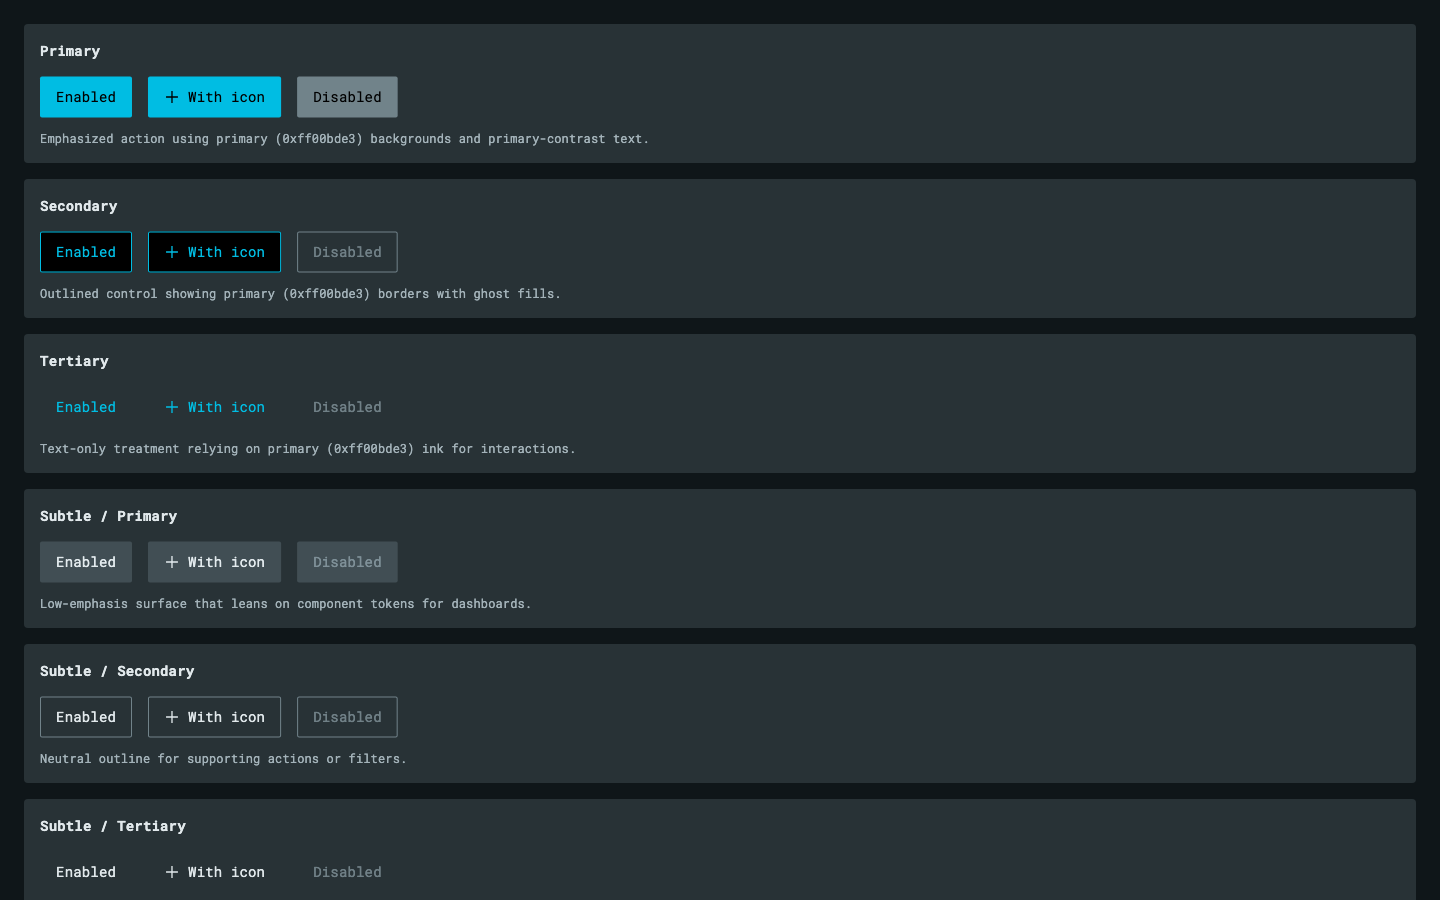
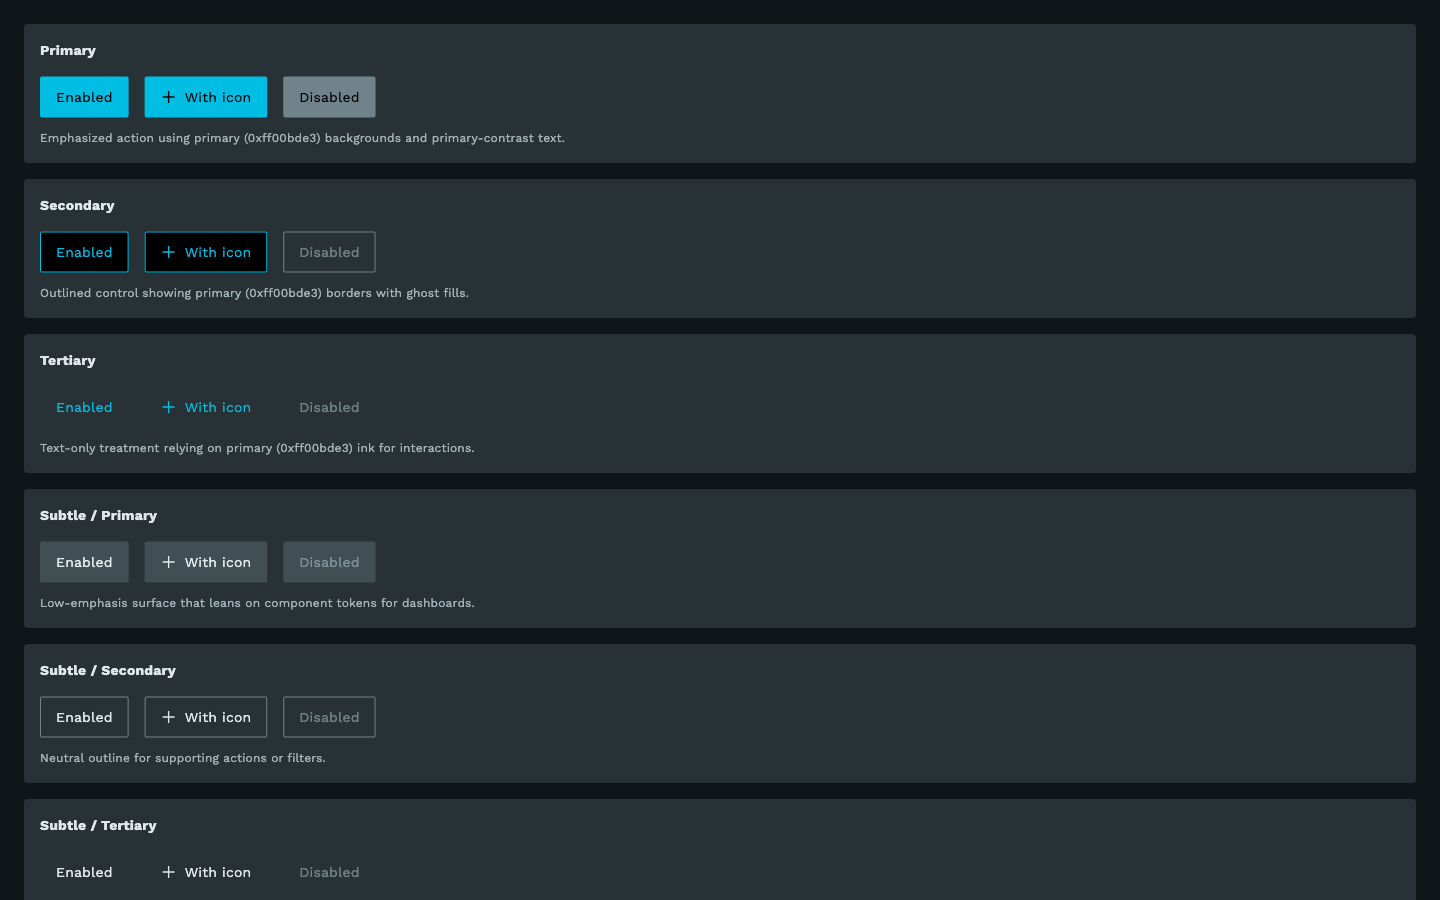
fix(pub): capture screenshots with Work Sans, correct pub.dev descriptions
Both regressions from review round 1:
- All four screenshots rendered in Roboto Mono (a monospace face), the
  1.x default IxTypography() falls back to. Pub.dev screenshots should
  show the bundled iX typeface instead, so screenshots_test.dart now
  builds its themes with typography: IxTypography(fontFamily:
  IxFonts.workSans, package: IxFonts.packageName), and
  flutter_test_config.dart loads Work Sans under the resulting
  package-prefixed family name alongside the existing Roboto Mono/
  JetBrains Mono loads (which packages/ix_flutter's own test config
  keeps using, since that suite exercises the real 1.x default).
- The overview screenshot descriptions in pubspec.yaml claimed an
  "application scaffold", which the page doesn't show (it's a theme
  configuration/token summary); reworded all four descriptions to match
  actual content and mention the Work Sans typography, and documented
  the Work-Sans-in-screenshots-vs-Roboto-Mono-by-default distinction in
  example/README.md.

diff --git a/example/test/screenshots_test.dart b/example/test/screenshots_test.dart
@@ -16,11 +16,15 @@ import 'package:ix_flutter/ix_flutter.dart';
 const _capture = bool.fromEnvironment('IX_CAPTURE_SCREENSHOTS');
 const _out = '../packages/ix_flutter/screenshots';
 
-/// The sans-serif UI font family baked into [IxThemeBuilder]'s default
-/// [IxTypography]. Work Sans ([IxFonts.workSans]) is opt-in pre-2.0 -- see
-/// its doc comment -- so this (not Work Sans) is what the theme actually
-/// resolves to, and therefore what the screenshots render, today.
-const _uiFontFamily = 'Roboto Mono';
+/// The sans-serif UI font family the screenshot themes below are explicitly
+/// built with. [IxThemeBuilder]'s own default resolves to
+/// `IxFonts.robotoMono` -- a monospace face -- because Work Sans
+/// ([IxFonts.workSans]) is opt-in pre-2.0 (see its doc comment); pub.dev
+/// screenshots should show the bundled iX typeface instead, so `main()`
+/// below passes `typography: IxTypography(fontFamily: IxFonts.workSans,
+/// package: IxFonts.packageName)`, which resolves to this package-prefixed
+/// family name.
+const _uiFontFamily = 'packages/ix_flutter/Work Sans';
 
 Future<void> _shoot(
   WidgetTester tester,
@@ -87,8 +91,21 @@ Future<void> _shoot(
 }
 
 void main() {
-  final light = const IxThemeBuilder.light().build();
-  final dark = const IxThemeBuilder.dark().build();
+  // Not `const`: IxTypography's constructor is a factory, so it isn't a
+  // compile-time constant and neither is the IxThemeBuilder call it's passed
+  // into.
+  final light = IxThemeBuilder.light(
+    typography: IxTypography(
+      fontFamily: IxFonts.workSans,
+      package: IxFonts.packageName,
+    ),
+  ).build();
+  final dark = IxThemeBuilder.dark(
+    typography: IxTypography(
+      fontFamily: IxFonts.workSans,
+      package: IxFonts.packageName,
+    ),
+  ).build();
 
   testWidgets(
     'overview light',

diff --git a/example/test/flutter_test_config.dart b/example/test/flutter_test_config.dart
@@ -7,6 +7,13 @@ import 'package:flutter_test/flutter_test.dart';
 /// Loads the bundled fonts (copied from `packages/ix_flutter/test/flutter_test_config.dart`,
 /// C-2) so goldens, text measurements and the pub.dev screenshots use real
 /// glyphs instead of the test-harness Ahem font.
+///
+/// Roboto Mono and JetBrains Mono mirror the package's own test config (the
+/// real 1.x default typeface, per `IxTypography()`'s default). Work Sans is
+/// loaded in addition, under its package-prefixed family name, because
+/// `screenshots_test.dart` explicitly opts into it for the pub.dev
+/// screenshots -- it is the bundled iX typeface the package ships, and
+/// becomes the 2.0 default, but stays opt-in pre-2.0.
 Future<void> testExecutable(FutureOr<void> Function() testMain) async {
   TestWidgetsFlutterBinding.ensureInitialized();
   await _loadFont('Roboto Mono', [
@@ -16,6 +23,15 @@ Future<void> testExecutable(FutureOr<void> Function() testMain) async {
   await _loadFont('JetBrains Mono', [
     '../packages/ix_flutter/assets/fonts/JetBrains_Mono/static/JetBrainsMono-Regular.ttf',
     '../packages/ix_flutter/assets/fonts/JetBrains_Mono/static/JetBrainsMono-Bold.ttf',
+  ]);
+  // Registered under the `package:` prefixed family name IxTypography
+  // resolves to (see typography_test.dart's "Work Sans opt-in uses the
+  // package prefix"), so a TextStyle built with
+  // IxTypography(fontFamily: IxFonts.workSans, package: IxFonts.packageName)
+  // matches this loaded font instead of falling back to Ahem.
+  await _loadFont('packages/ix_flutter/Work Sans', [
+    '../packages/ix_flutter/assets/fonts/Work_Sans/static/WorkSans-Regular.ttf',
+    '../packages/ix_flutter/assets/fonts/Work_Sans/static/WorkSans-Bold.ttf',
   ]);
   await testMain();
 }

diff --git a/example/README.md b/example/README.md
@@ -35,7 +35,13 @@ references.
 `packages/ix_flutter/pubspec.yaml`'s `screenshots:` metadata) are captured by
 `test/screenshots_test.dart`, which renders `HomePage` and `ButtonsPage`
 against the light and dark classic themes at 1440x900 and writes the PNGs
-straight into the library's `screenshots/` directory:
+straight into the library's `screenshots/` directory. The capture explicitly
+opts into the bundled Work Sans typeface (`IxTypography(fontFamily:
+IxFonts.workSans, package: IxFonts.packageName)`) so the marketing
+screenshots show it off; the 1.x default typography stays Roboto Mono
+(a monospace face) until Work Sans becomes the default in 2.0, so an app
+that builds its theme with plain `IxThemeBuilder.light()/.dark()` still
+renders Roboto Mono today, unlike these screenshots:
 
 ```bash
 flutter test --dart-define=IX_CAPTURE_SCREENSHOTS=true test/screenshots_test.dart
